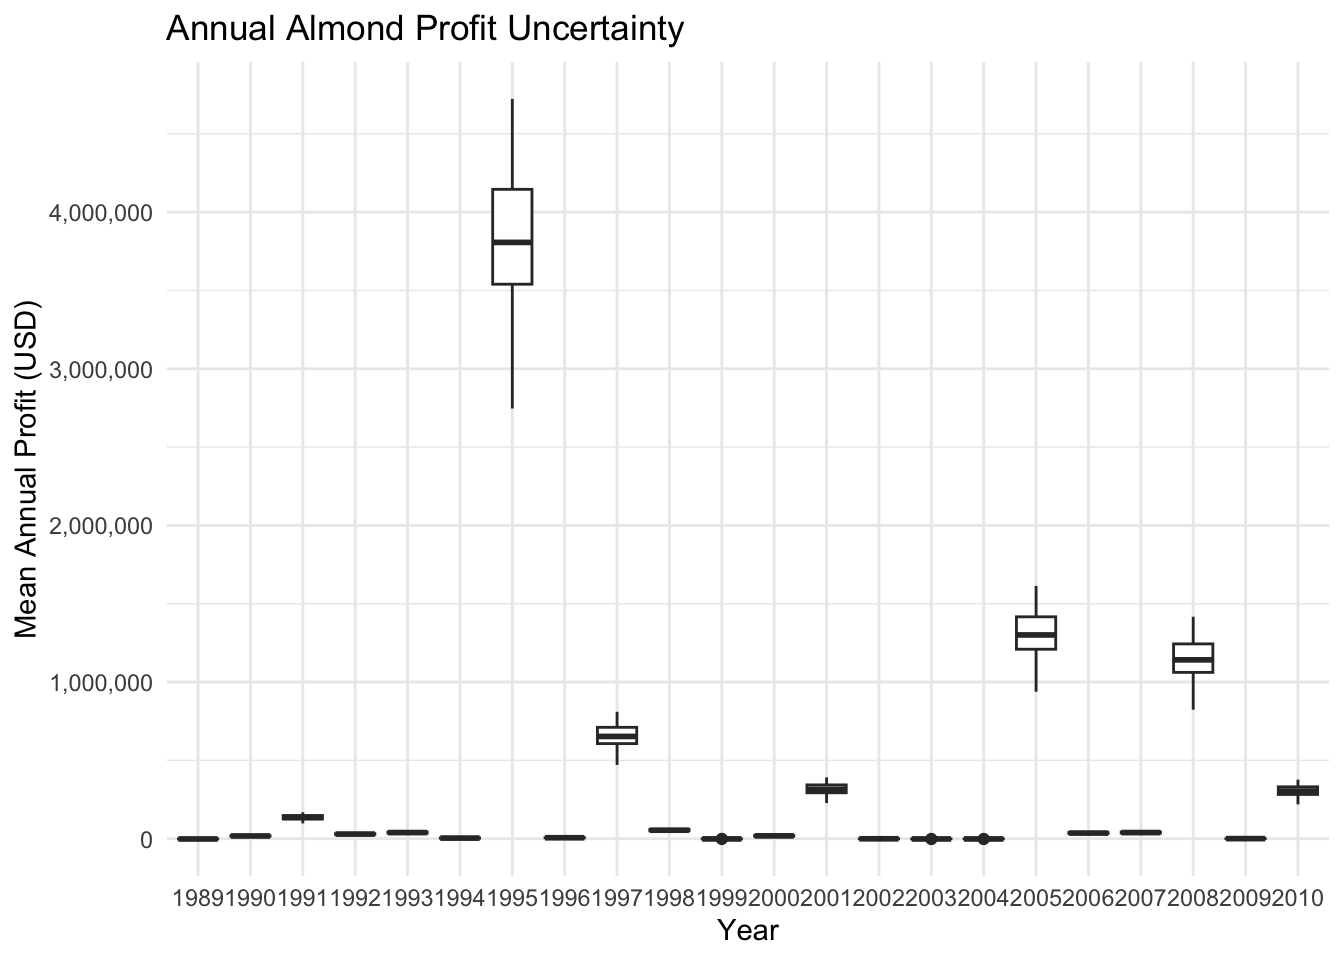
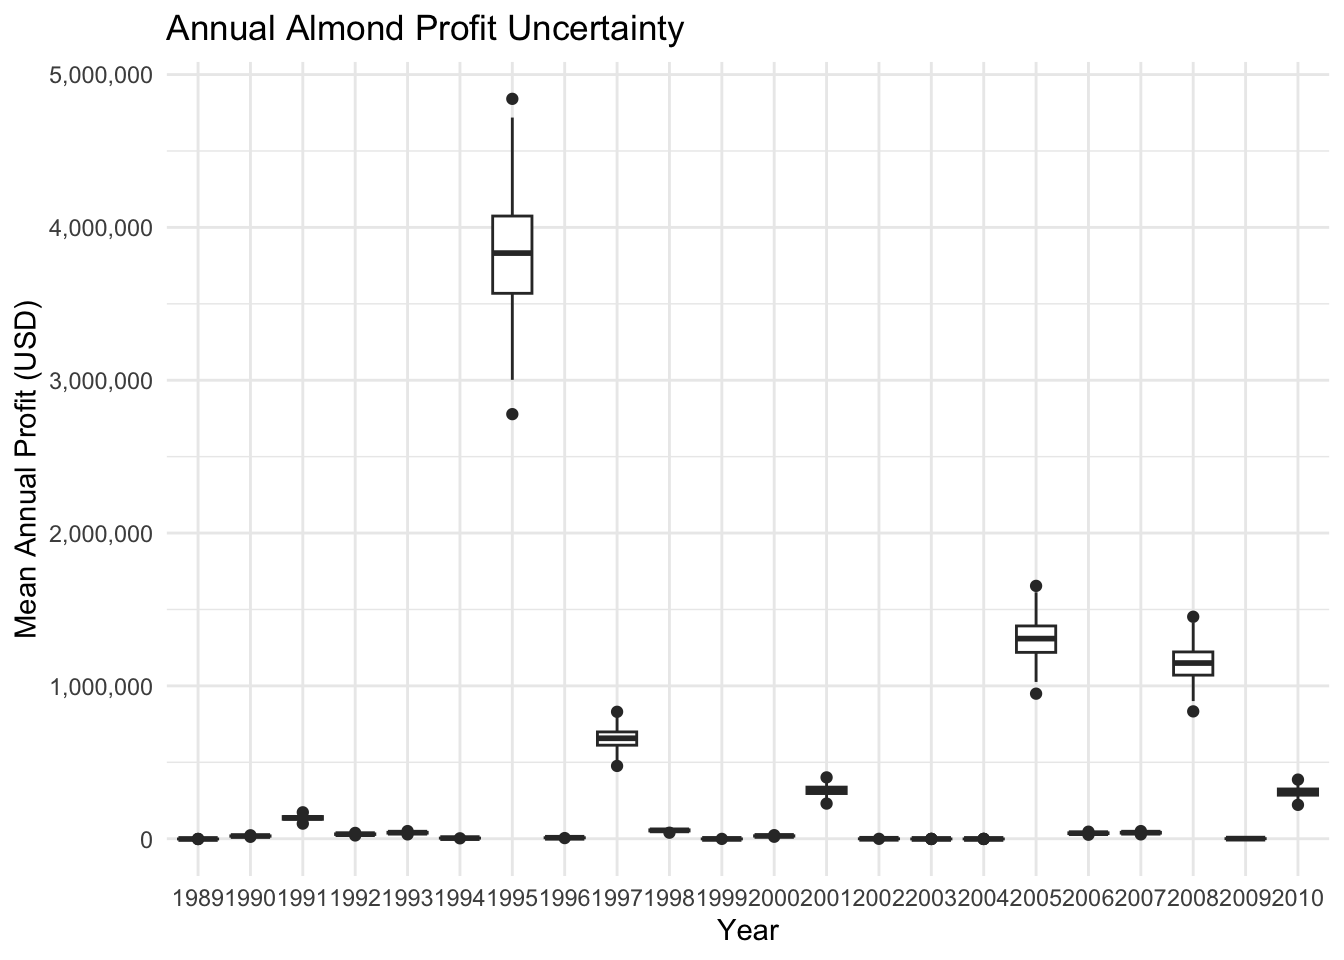
Re-render

diff --git a/almond-profit-model.html b/almond-profit-model.html
@@ -121,8 +121,8 @@ pre > code.sourceCode > span > a:first-child::before { text-decoration: underlin
 ✔ dplyr     1.1.4     ✔ readr     2.1.5
 ✔ forcats   1.0.0     ✔ stringr   1.5.1
 ✔ ggplot2   3.5.1     ✔ tibble    3.2.1
-✔ lubridate 1.9.4     ✔ tidyr     1.3.1
-✔ purrr     1.0.2     
+✔ lubridate 1.9.3     ✔ tidyr     1.3.1
+✔ purrr     1.0.4     
 ── Conflicts ────────────────────────────────────────── tidyverse_conflicts() ──
 ✖ dplyr::filter() masks stats::filter()
 ✖ dplyr::lag()    masks stats::lag()
@@ -130,7 +130,7 @@ pre > code.sourceCode > span > a:first-child::before { text-decoration: underlin
 </div>
 <div class="sourceCode cell-code" id="cb3"><pre class="sourceCode r code-with-copy"><code class="sourceCode r"><span id="cb3-1"><a href="#cb3-1" aria-hidden="true" tabindex="-1"></a><span class="fu">library</span>(here)</span></code><button title="Copy to Clipboard" class="code-copy-button"><i class="bi"></i></button></pre></div>
 <div class="cell-output cell-output-stderr">
-<pre><code>here() starts at /Users/jordansibley/Desktop/MEDS/EDS_230/almond-yield-modeling</code></pre>
+<pre><code>here() starts at /Users/marinakochuten/MEDS/spring/eds230-modeling/almond-yield-modeling</code></pre>
 </div>
 <div class="sourceCode cell-code" id="cb5"><pre class="sourceCode r code-with-copy"><code class="sourceCode r"><span id="cb5-1"><a href="#cb5-1" aria-hidden="true" tabindex="-1"></a><span class="fu">library</span>(purrr)</span></code><button title="Copy to Clipboard" class="code-copy-button"><i class="bi"></i></button></pre></div>
 </div>
@@ -176,16 +176,16 @@ pre > code.sourceCode > span > a:first-child::before { text-decoration: underlin
 <pre><code># A tibble: 22 × 3
     year almond_yield   profit
    &lt;int&gt;        &lt;dbl&gt;    &lt;dbl&gt;
- 1  1989       -0.355   -1597.
- 2  1990        9.29    16015.
- 3  1991       68.9    124879.
- 4  1992       15.4     27221.
- 5  1993       20.2     35949.
- 6  1994        2.48     3583.
- 7  1995     1920.    3504735.
- 8  1996        3.58     5591.
- 9  1997      330.     601038.
-10  1998       27.9     49928.
+ 1  1989       -0.355   -1691.
+ 2  1990        9.29    16633.
+ 3  1991       68.9    129889.
+ 4  1992       15.4     28290.
+ 5  1993       20.2     37370.
+ 6  1994        2.48     3698.
+ 7  1995     1920.    3646120.
+ 8  1996        3.58     5788.
+ 9  1997      330.     625260.
+10  1998       27.9     51913.
 # ℹ 12 more rows</code></pre>
 </div>
 <div class="sourceCode cell-code" id="cb10"><pre class="sourceCode r code-with-copy"><code class="sourceCode r"><span id="cb10-1"><a href="#cb10-1" aria-hidden="true" tabindex="-1"></a><span class="fu">length</span>(results)</span></code><button title="Copy to Clipboard" class="code-copy-button"><i class="bi"></i></button></pre></div>
